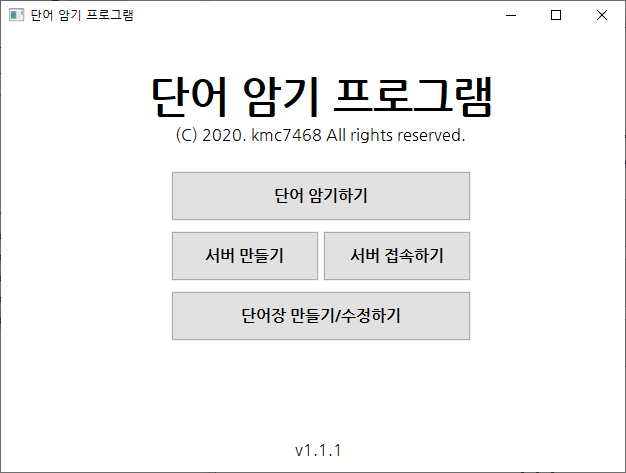
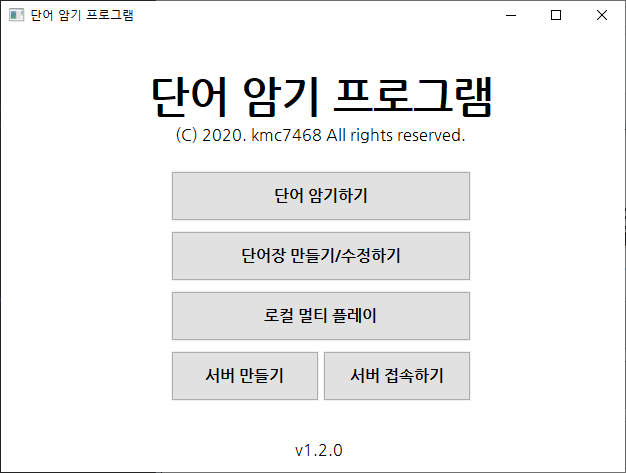
README.md 파일 업데이트

diff --git a/README.md b/README.md
@@ -10,7 +10,9 @@
 	<img src="https://github.com/kmc7468/WordReminder/blob/master/img/MainWindow_MultiplayClicked.png" width="49%" />
 </p>
 
-프로그램을 실행하면 가장 먼저 볼 수 있는 화면입니다. 단어 암기하기 버튼을 눌러 단어를 암기할 수 있으며, 단어장 만들기/수정하기 버튼을 눌러 암기에 필요한 단어장을 만들거나 수정할 수도 있습니다. 멀티 플레이 버튼을 눌러 친구와 함께 단어를 암기할 수도 있습니다. 멀티 플레이 버튼을 누르면 버튼이 5초간 서버 만들기와 서버 접속하기 버튼으로 나뉘는데, 멀티 플레이 서버를 직접 열거나 친구가 만든 멀티 플레이 서버에 접속할 수 있습니다.
+프로그램을 실행하면 가장 먼저 볼 수 있는 화면입니다. 단어 암기하기 버튼을 눌러 단어를 암기할 수 있으며, 단어장 만들기/수정하기 버튼을 눌러 암기에 필요한 단어장을 만들거나 수정할 수도 있습니다. 로컬 멀티 플레이 또는 온라인 멀티 플레이 버튼을 눌러 친구와 함께 단어를 암기할 수도 있습니다.
+
+온라인 멀티 플레이 버튼을 누르면 버튼이 5초간 서버 만들기와 서버 접속하기 버튼으로 나뉘는데, 멀티 플레이 서버를 직접 열거나 친구가 만든 멀티 플레이 서버에 접속할 수 있습니다.
 
 ### 단어장 만들기/수정하기
 ![VocabularyWindow](https://github.com/kmc7468/WordReminder/blob/master/img/VocabularyWindow.png)
@@ -31,16 +33,34 @@
 그만 외우기 버튼을 누르면 암기를 종료할 수 있습니다. 이 화면에서는 잘 외우지 못한 단어 목록을 확인하고, 잘 외우지 못한 단어만 모아서 다시 암기할 수도 있습니다. 이러한 경우 적어도 뜻이 다른 5개 이상의 단어를 틀렸어야 합니다.
 
 ### 멀티 플레이
+WordReminder에는 2가지 멀티 플레이 모드가 있어 친구와 함께 단어를 암기할 수 있습니다.
+
+#### 로컬 멀티 플레이
+첫 번째로, 로컬 멀티 플레이는 지금 같이 있는 친구와 컴퓨터 1대를 사용해 암기하는 모드입니다. 메인 화면에서 로컬 멀티 플레이 버튼을 누르면 싱글 플레이 버튼을 눌렀을 때와 같은 화면이 나타납니다. 친구와 함께 암기할 단어장을 선택하고, 문제 유형을 선택할 수 있습니다. 
+
+![LocalMultiplayWindow](https://github.com/kmc7468/WordReminder/blob/master/img/LocalMultiplayWindow.png)
+
+그 창에서 시작하기 버튼을 누르면 볼 수 있는 화면입니다. 로컬 멀티 플레이에서는 친구와 경쟁하며 최대한 빨리, 더 많은 단어를 맞혀야 합니다. 상대적으로 왼쪽에 있는 플레이어(이하 "왼쪽 플레이어")는 키보드의 WASD키, 상대적으로 오른쪽에 있는 플레이어(이하 "오른쪽 플레이어")는 키보드의 방향키를 사용해 선지를 고를 수 있습니다.
+
+제일 먼저 선지를 고른 플레이어를 A, 그렇지 않은 플레이어를 B라고 하겠습니다. A가 고른 선지가 정답일 경우 A는 2점을 얻고 B의 점수에는 변화가 없습니다. 그러나, 정답이 아니였을 경우 B에게 선지를 고를 기회가 주어집니다. 이때, B가 선지를 고를 때까지 A는 선지를 고를 수 없습니다. B가 고른 선지가 정답일 경우 A는 1점을 잃고 B는 2점을 얻습니다. 그러나, 정답이 아니었을 경우 다시 A에게 선지를 고를 기회가 주어지며, B는 더이상 선지를 고를 수 없게됩니다. A가 고른 선지가 정답일 경우 B는 1점을 잃고 A는 1점을 얻습니다. 그러나, 정답이 아니었을 경우 A는 1점을 잃고 B의 점수에는 변화가 없습니다.
+
+![LocalMultiplayWindow_Score](https://github.com/kmc7468/WordReminder/blob/master/img/LocalMultiplayWindow_Score.png)
+
+그만 외우기 버튼을 누르면 두 플레이어의 점수를 확인하고 암기를 종료할 수 있습니다. 싱글 플레이와 달리 잘 외우지 못한 단어 목록을 확인할 수는 없습니다.
+
+#### 온라인 멀티 플레이
+두 번째로, 온라인 멀티 플레이는 멀리 떨어진 친구와 컴퓨터 2대와 인터넷을 사용해 암기하는 모드입니다.
+
 <p float="left">
 	<img src="https://github.com/kmc7468/WordReminder/blob/master/img/MultiplayStartWindow_ServerCreation.png" width="49%" />
 	<img src="https://github.com/kmc7468/WordReminder/blob/master/img/MultiplayStartWindow_ServerJoining.png" width="49%" />
 </p>
 
-메인 화면에서 서버 만들기, 서버 접속하기 버튼을 누르면 볼 수 있는 화면입니다. 서버 만들기를 눌렀을 경우 컴퓨터의 외부 IP를 확인하고, 서버를 열 포트와 플레이 모드, 자신의 역할을 고를 수 있습니다. 서버 접속하기 버튼을 눌렀을 경우 접속할 서버의 주소를 입력할 수 있습니다.
+메인 화면에서 각각 서버 만들기, 서버 접속하기 버튼을 누르면 볼 수 있는 화면입니다. 서버 만들기를 눌렀을 경우 컴퓨터의 외부 IP를 확인하고, 서버를 열 포트와 플레이 모드, 자신의 역할을 고를 수 있습니다. 서버 접속하기 버튼을 눌렀을 경우 접속할 서버의 주소를 입력할 수 있습니다.
 
 턴제 모드는 두 사람의 역할이 매 턴마다 바뀌는 플레이 모드이고, 역할 고정 모드는 역할이 바뀌지 않는 플레이 모드입니다.
 
-#### 턴제 모드
+##### 턴제 모드
 <p float="left">
 	<img src="https://github.com/kmc7468/WordReminder/blob/master/img/QuestionWindow_Examiner1.png" width="49%" />
 	<img src="https://github.com/kmc7468/WordReminder/blob/master/img/QuestionWindow_Examiner2.png" width="49%" />
@@ -59,7 +79,7 @@
 
 응시자가 올바른 답을 고르면 1회의 턴이 끝나고, 출제자와 응시자의 역할이 바뀝니다. 게임은 언제든지 그만 외우기 버튼을 눌러 중지할 수 있습니다. 그만 외우기 버튼을 누르면 싱글 플레이와 같이 잘 외우지 못한 단어 목록을 확인하고, 잘 외우지 못한 단어만 모아서 다시 암기할 수도 있습니다. 단, 다시 암기하는 것은 멀티 플레이가 아닌 싱글 플레이로 진행됩니다.
 
-### 역할 고정 모드
+##### 역할 고정 모드
 <p float="left">
 	<img src="https://github.com/kmc7468/WordReminder/blob/master/img/ExaminerWindow_1.png" width="49%" />
 	<img src="https://github.com/kmc7468/WordReminder/blob/master/img/ExaminerWindow_2.png" width="49%" />
